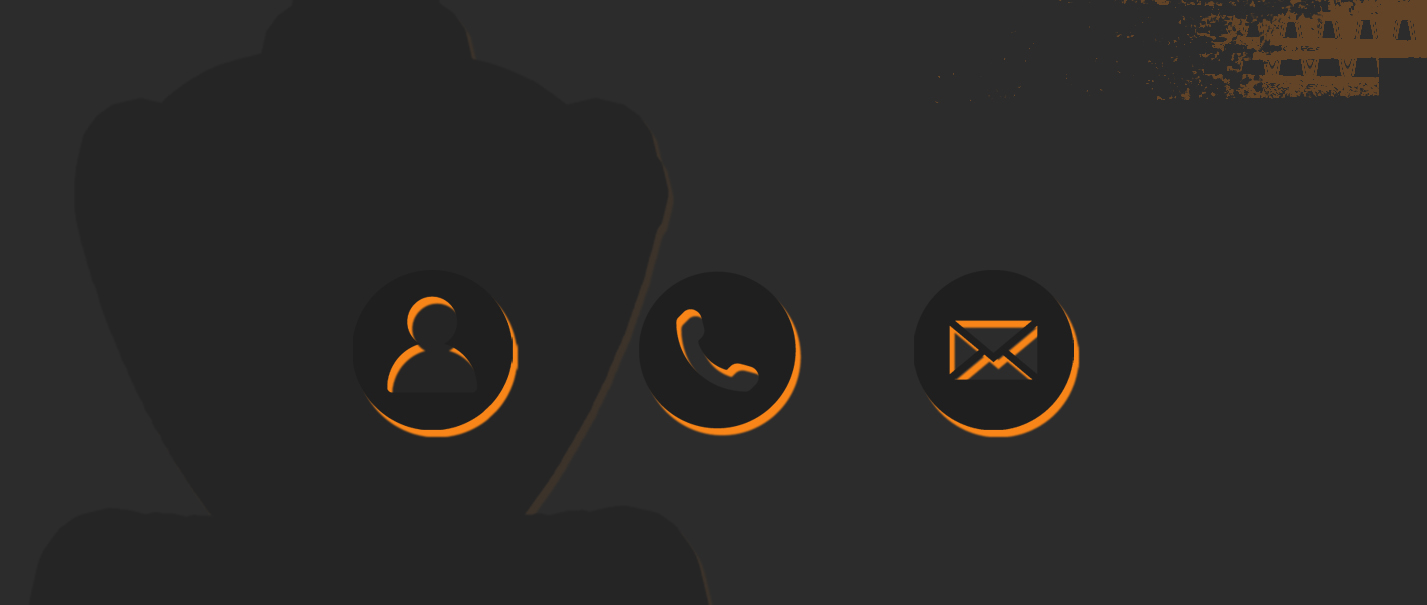
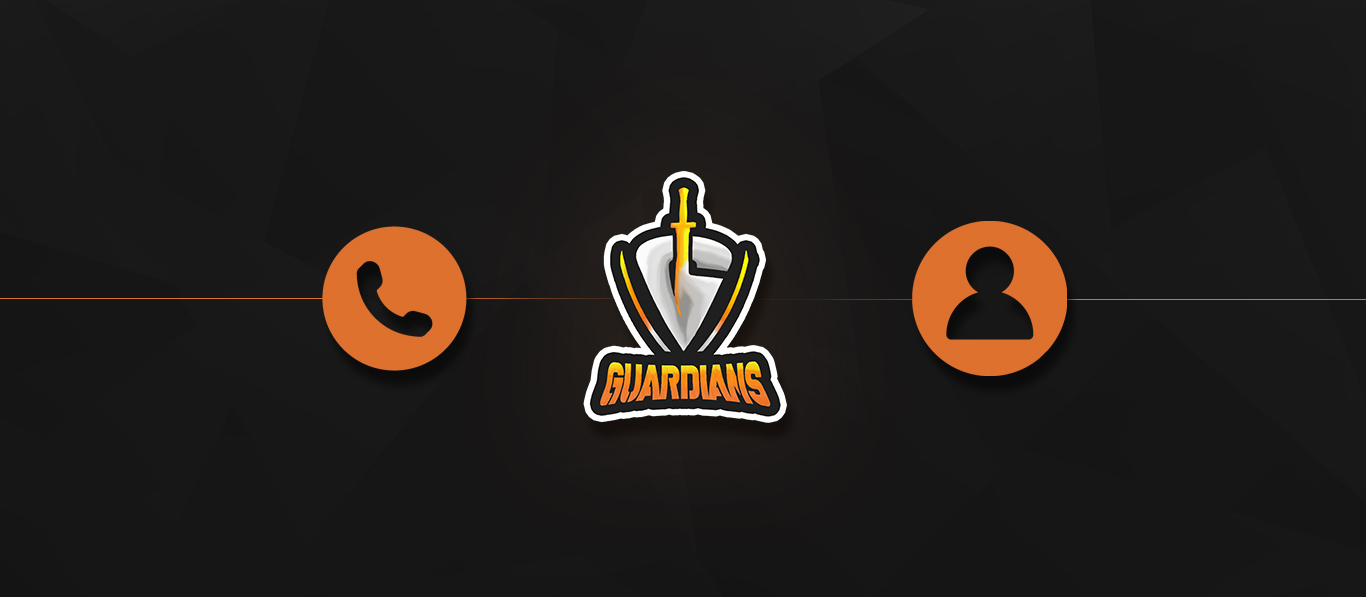
add major changes on Contact Page

diff --git a/src/app/contact/contact.component.less b/src/app/contact/contact.component.less
@@ -7,8 +7,6 @@ img {
 .body {
 	background-image: url(https://github.com/ProjectGuardian/Guardian-Test/blob/master/src/assets/background1234.jpg?raw=true);
 	background-repeat: no-repeat;
-	background-size: cover;
-    background-position: center;
     scroll-behavior: smooth;
 	overflow-x: hidden;
 	
@@ -22,19 +20,23 @@ img {
     text-align: center;
     font-size: 50px;
     color: rgb(248, 133, 24);
-    margin:0 auto;
-    
+	margin:0 auto;
+	border: 1px solid;
+	border-radius: 50px;
+	background-image: url(assets/ContactTitle.jpg);
 }
 .contact p {
     padding: 50px;
     text-align: justify;
     font-size: 25px;
-    color: white;
+	color: white;
+	border: 1px solid rgb(248, 133, 24);
+	border-radius: 50px;
+	background-image: url(assets/ContactBody.jpg);
 }
 //Send us a message section
 
 .contact-section{
-	background-image: url(https://github.com/ProjectGuardian/Guardian-Test/blob/master/src/assets/background1234.jpg?raw=true) no-repeat;
 	padding: 80px 0;
 	text-align: center;
   }
@@ -88,6 +90,10 @@ img {
 	max-width: 100%;
   }
 
+  .message:hover{
+	height: 100px;
+  }
+
   textarea{
 	resize: none;
   }
@@ -108,7 +114,7 @@ img {
 .btn-submit{
 		text-decoration: none;
 		background: none;
-		color: #70a1ff;
+		color: rgb(248, 133, 24);
 		border: 1px solid white;
 		padding: 12px 40px;
 		border-radius: 8px;
@@ -131,7 +137,7 @@ img {
 
 }
 .footer-distributed{
-	background-color: #292c2f;
+	background-color: #181818;
 	box-shadow: 0 1px 1px 0 rgba(0, 0, 0, 0.12);
 	box-sizing: border-box;
     width: 100%;
@@ -156,7 +162,7 @@ img {
  
 .footer-distributed h3{
 	color:  #ffffff;
-	font: normal 36px 'Cookie', cursive;
+	font: normal 36px 'Army Buster', cursive;
 	margin: 0;
 }
  
@@ -222,7 +228,7 @@ img {
 }
  
 .footer-distributed .footer-center p a{
-	color:  #5383d3;
+	color:  rgb(248, 133, 24);
 	text-decoration: none;;
 }
  

diff --git a/src/app/contact/contact.component.html b/src/app/contact/contact.component.html
@@ -1,7 +1,7 @@
 
 <div class="body">
     <div class="hero-wrap">
-        <img src="https://github.com/ProjectGuardian/Guardian-Test/blob/master/src/assets/ContactPage.jpg?raw=true">
+        <img src="/assets/ContactPage.jpg">
    </div>
     <div class="contact">
          <!--intro-->
